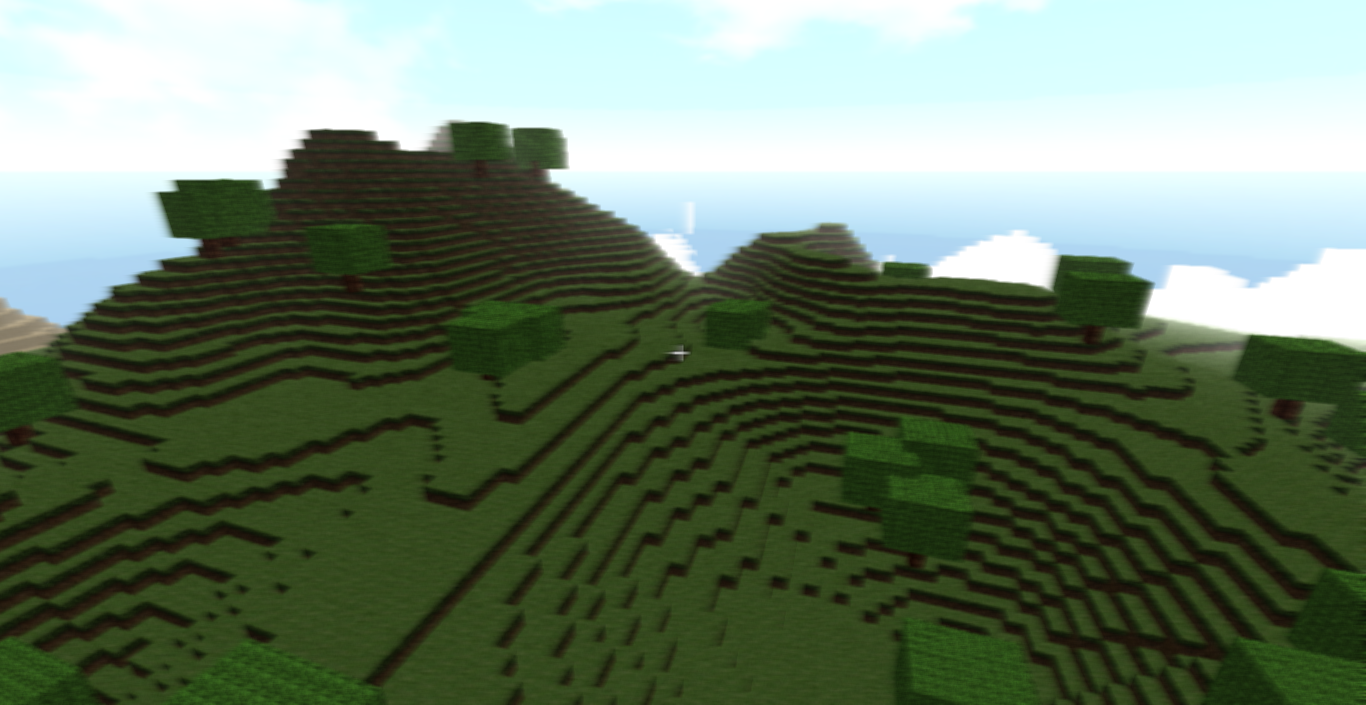
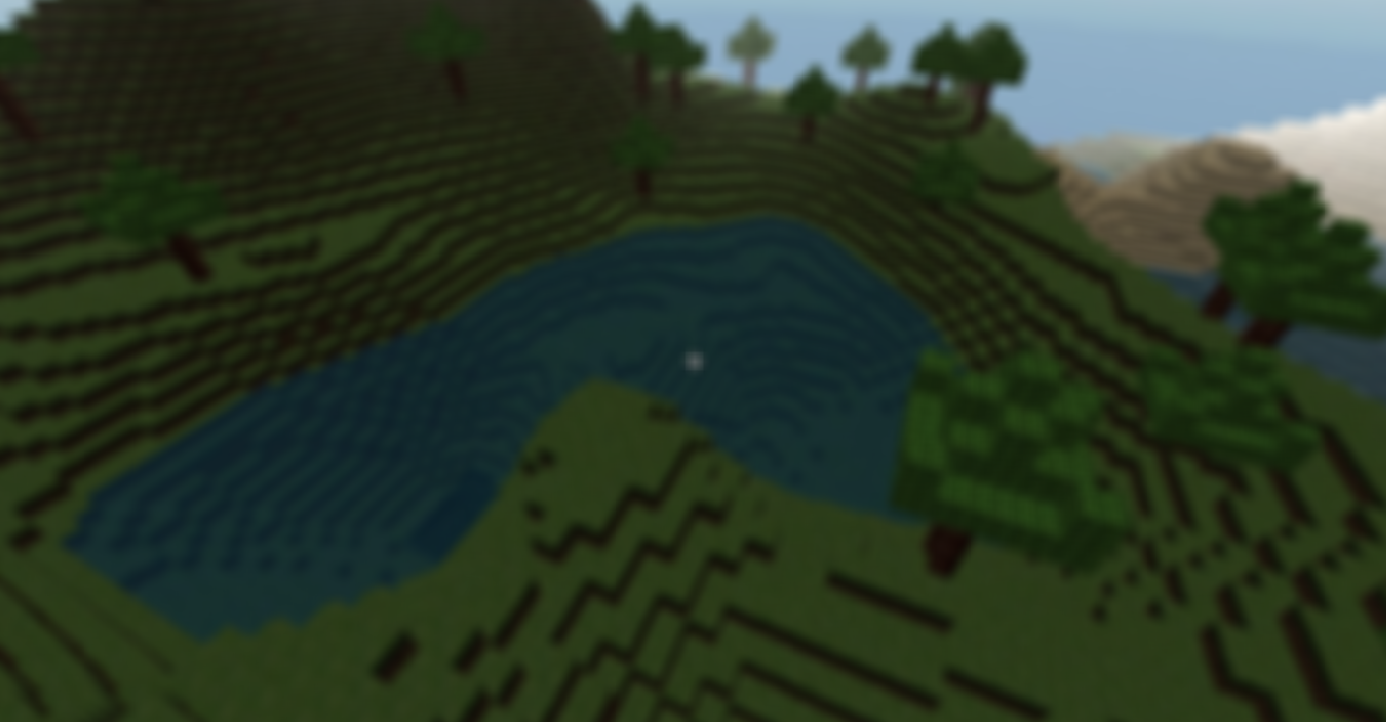
Changed menu background

diff --git a/Source/Core/Application/Application.cpp b/Source/Core/Application/Application.cpp
@@ -167,7 +167,7 @@ namespace Minecraft
 		glfwMaximizeWindow(m_Window);
 
 		m_LogoTexture.CreateTexture("Resources/Branding/logo.png", false);
-		m_BlurMenuBackground.CreateTexture("Resources/Branding/menu_blur.png", false);
+		m_BlurMenuBackground.CreateTexture("Resources/Branding/1234.png", false);
 		m_Renderer2D = new Renderer2D;
 	}
 

diff --git a/Source/Core/World/WorldGenerator.cpp b/Source/Core/World/WorldGenerator.cpp
@@ -6,7 +6,7 @@ namespace Minecraft
     Biome GetBiome(float chunk_noise);
 
     // Water levels
-    constexpr int water_min = 80;
+    constexpr int water_min = 18;
     constexpr int water_max = 90;
 
     // Sets the vertical blocks based on the biome
